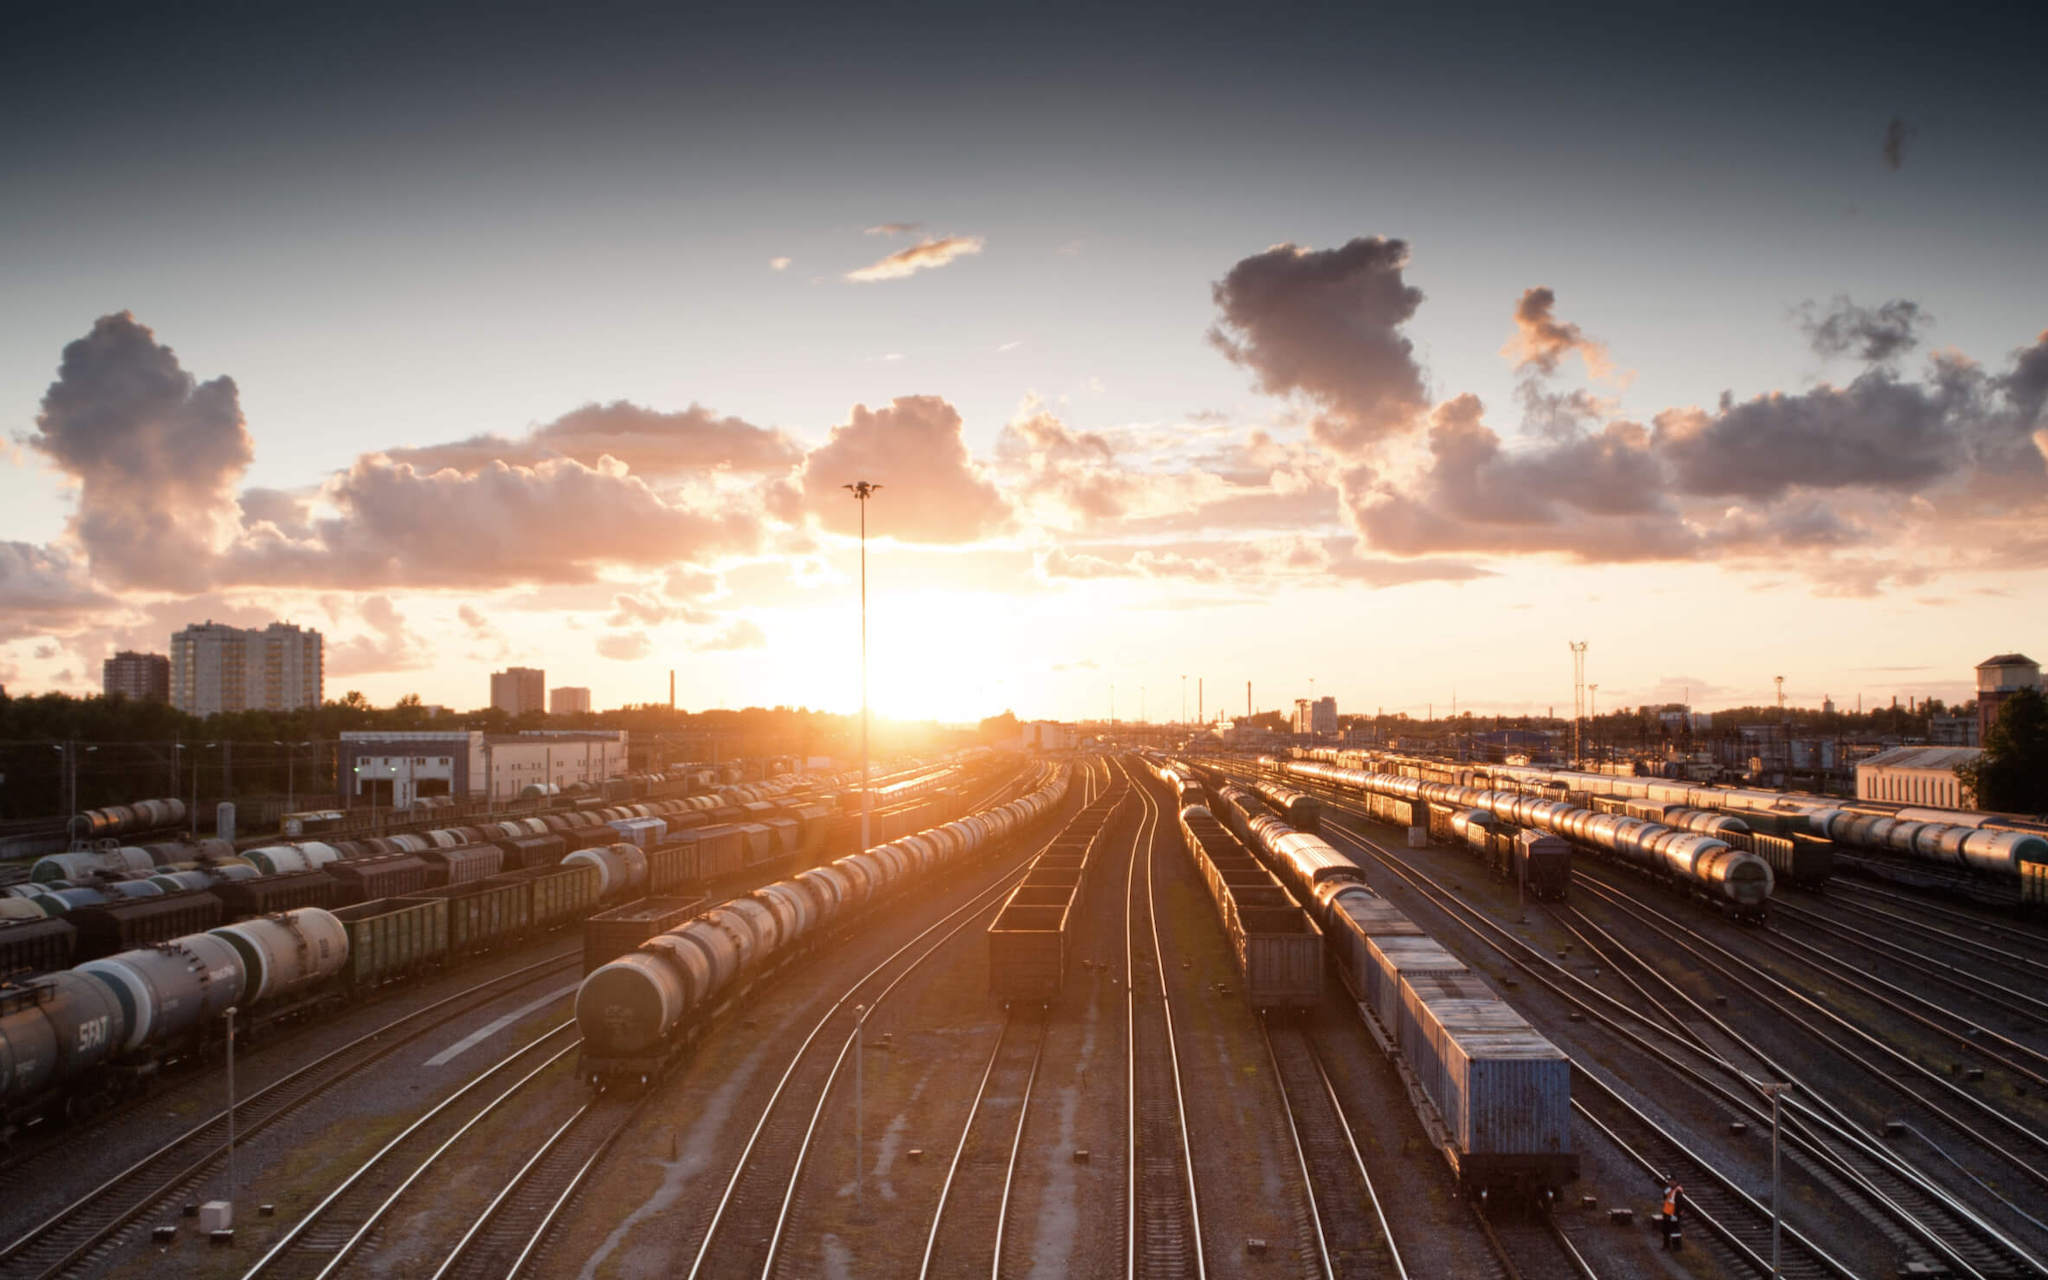
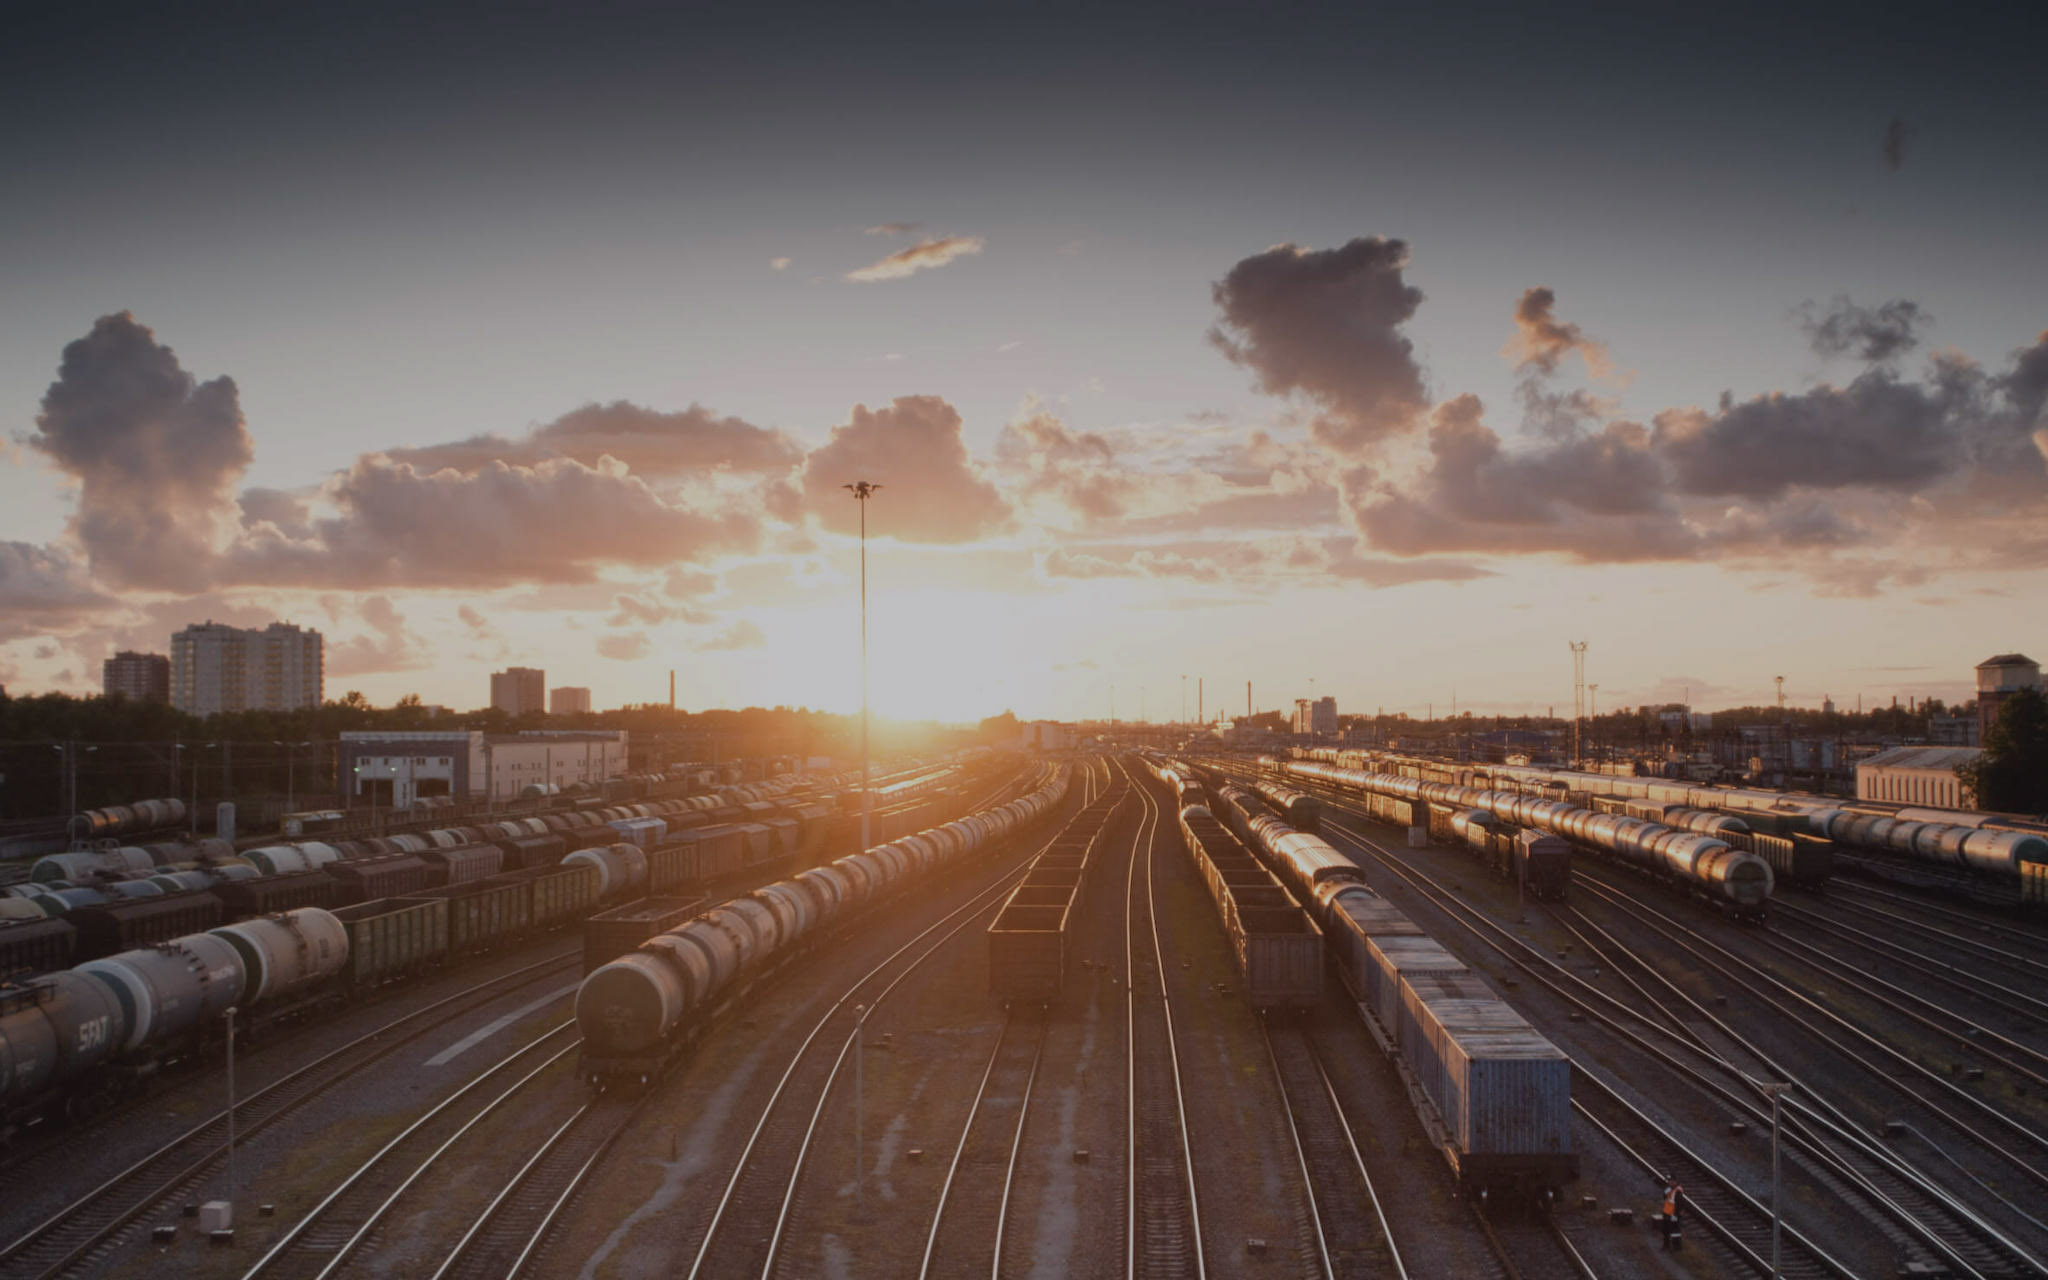
cover block ready and header block started

diff --git a/index.html b/index.html
@@ -16,7 +16,7 @@
     </header>
 
     <main class="content">
-
+<!--
       <section class="lead">
         <h1 class="lead__title">Путешествия по России</h1>
         <h2 class="lead__subtitle">Настоящая страна не в выпусках новостей, а здесь</h2>
@@ -174,11 +174,31 @@
           </div>
         </div>
       </section>
-     
-      <section class="cover">COVER</section>
+    -->
+      <section class="cover">
+        <a href="https://stampsy.com/na-elektrichkakh-do-baikala" target="_blank" class="cover__link">
+          <div class="cover__background">
+            <h2 class="cover__title">До Байкала «на собаках»</h2> 
+            <h3 class="cover__subtitle">
+            По мотивам учебной темы о Транссибе — путешествие от столицы до Байкала на электричках.
+            </h3>
+          </div>
+        </a>
+      </section>
     </main>
 
-    <footer class="footer">FOOTER</footer>
+    <footer class="footer">
+      <div>
+        <a href="#" class="footer__link">Карты</a>
+        <a href="#" class="footer__link">Погода</a>
+        <a href="#" class="footer__link">Расписание</a>
+        <a href="#" class="footer__link">Календарь</a>
+        <a href="#" class="footer__link">Путешествия</a>
+      </div>
+      <div>
+        <p class="footer__copyright">© 2023. Стас Зайцев</p>
+      </div>
+    </footer>
 
   </div>
 </body>

diff --git a/blocks/cover/__background/cover__background.css b/blocks/cover/__background/cover__background.css
@@ -1,0 +1,39 @@
+.cover__background {
+  background-image: url(../../../images/cover-trains.jpg);
+  background-repeat: no-repeat;
+  background-position: center;
+  background-size: cover;
+  display: flex;
+  flex-direction: column;
+  justify-content: center;
+  align-items: center;
+  
+}
+ 
+@media screen and (min-width: 320px) {
+  .cover__background {
+    min-width: 320px;
+    height: 100%;
+  }  
+}
+
+@media screen and (min-width: 768px) {
+  .cover__background {
+    width: 768px;
+    height: 480px;
+  } 
+}
+
+@media screen and (min-width: 1024px) {
+  .cover__background {
+    width: 1024px;
+    height: 640px;
+  }
+}
+
+@media screen and (min-width: 1280px) {
+  .cover__background {
+    width: 1184px;
+    height: 740px;
+  }
+}

diff --git a/blocks/cover/cover.css b/blocks/cover/cover.css
@@ -1,39 +1,28 @@
 .cover {
   grid-area: cover;
+  position: relative;
 }
 
 @media screen and (min-width: 320px) {
   .cover {
-    width: 320px;
-    height: 200px;
     margin: 66px 0 0;
-    outline: 1px solid red;
   }  
 }
 
 @media screen and (min-width: 768px) {
   .cover {
-    width: 768px;
-    height: 480px;
     margin: 90px 0 0;
-    outline: 1px solid greenyellow;
   } 
 }
 
 @media screen and (min-width: 1024px) {
   .cover {
-    width: 1024px;
-    height: 640px;
-    margin: 92px 0px 0;
-    outline: 1px solid blueviolet;
+    margin: 92px 0 0;
   }
 }
 
 @media screen and (min-width: 1280px) {
   .cover {
-    width: 1184px;
-    height: 740px;
     margin: 92px 48px 0;
-    outline: 1px solid teal;
   }
 }

diff --git a/blocks/cover/__subtitle/cover__subtitle.css b/blocks/cover/__subtitle/cover__subtitle.css
@@ -1,0 +1,40 @@
+.cover__subtitle {
+  font-family: 'Inter';
+  font-style: normal;
+  font-weight: 400;
+  text-align: center;
+  color: #FFFFFF;
+  z-index: 3;
+}
+
+@media screen and (min-width: 320px) {
+  .cover__subtitle {
+    max-width: 288px;
+    font-size: 14px;
+    line-height: 16px;
+  }  
+}
+
+@media screen and (min-width: 768px) {
+  .cover__subtitle {
+    max-width: 360px;;
+    font-size: 18px;
+    line-height: 22px;
+  } 
+}
+
+@media screen and (min-width: 1024px) {
+  .cover__subtitle {
+    max-width: 360px;
+    font-size: 18px;
+    line-height: 22px;
+  }
+}
+
+@media screen and (min-width: 1280px) {
+  .cover__subtitle {
+    max-width: 360px;
+    font-size: 18px;
+    line-height: 22px;
+  }
+}

diff --git a/blocks/cover/__title/cover__title.css b/blocks/cover/__title/cover__title.css
@@ -1,0 +1,40 @@
+.cover__title {
+  font-family: 'Inter';
+  font-style: normal;
+  font-weight: 900;
+  text-align: center;
+  color: #FFFFFF;
+  z-index: 3;
+}
+
+@media screen and (min-width: 320px) {
+  .cover__title {
+    max-width: 288px;
+    font-size: 32px;
+    line-height: 35px;
+  }  
+}
+
+@media screen and (min-width: 768px) {
+  .cover__title {
+    max-width: 560px;
+    font-size: 72px;
+    line-height: 76px;
+  } 
+}
+
+@media screen and (min-width: 1024px) {
+  .cover__title {
+    max-width: 560px;
+    font-size: 72px;
+    line-height: 76px;
+  }
+}
+
+@media screen and (min-width: 1280px) {
+  .cover__title {
+    max-width: 560px;
+    font-size: 72px;
+    line-height: 76px;
+  }
+}

diff --git a/pages/index.css b/pages/index.css
@@ -34,8 +34,8 @@
 @import url(../blocks/place/__paragraph/place__paragraph.css);
 /*COVER*/
 @import url(../blocks/cover/cover.css);
+@import url(../blocks/cover/__link/cover__link.css);
 @import url(../blocks/cover/__background/cover__background.css);
-@import url(../blocks/cover/__overlay/cover__overlay.css);
 @import url(../blocks/cover/__title/cover__title.css);
 @import url(../blocks/cover/__subtitle/cover__subtitle.css);
 /*FOOTER*/

diff --git a/blocks/footer/__link/footer__link.css b/blocks/footer/__link/footer__link.css
@@ -1,0 +1,22 @@
+.footer__link {
+  font-family: 'Inter';
+  font-style: normal;
+  font-weight: 400;
+  margin: 0;
+  text-decoration: none;
+  color: #FFFFFF;
+}
+
+@media screen and (min-width: 320px) {
+  .footer__link {
+    font-size: 24px;
+    line-height: 24px;
+  }  
+}
+
+@media screen and (min-width: 768px) {
+  .footer__link {
+    font-size: 16px;
+    line-height: 18px;
+  }  
+}

diff --git a/blocks/cover/__link/cover__link.css b/blocks/cover/__link/cover__link.css
@@ -1,0 +1,20 @@
+.cover__link {
+  text-decoration: none;
+}
+
+.cover__link::after {
+  content: "";
+  position: absolute;
+  top: 0;
+  left:0; 
+  opacity: 0;
+  width: 100%;
+  height: 100%;
+  background-color: black;
+  z-index: 2;
+}
+
+.cover__link:hover::after { 
+  cursor: pointer;
+  opacity: 0.18;
+}

diff --git a/blocks/page/page.css b/blocks/page/page.css
@@ -4,7 +4,7 @@
   font-family: 'Inter', 'Helvetica Neue', Arial, sans-serif;
   background-color: #2A2C2F;
   display: grid;
-  grid-template-areas: 
+  grid-template-areas:  
   "header"
   "lead"
   "intro"

diff --git a/blocks/footer/__copyright/footer__copyright.css b/blocks/footer/__copyright/footer__copyright.css
@@ -1,0 +1,10 @@
+.footer__copyright {
+  font-family: 'Inter';
+  font-style: normal;
+  font-weight: 400;
+  font-size: 14px;
+  line-height: 14px;
+  margin: 0;
+  color: #FFFFFF;
+  align-self: end;
+}

diff --git a/blocks/footer/footer.css b/blocks/footer/footer.css
@@ -1,5 +1,9 @@
 .footer {
   grid-area: footer;
+  z-index: 10;
+  display: grid;
+  /* display: flex; */
+/* flex-direction: row; */
 }
 
 @media screen and (min-width: 320px) {
